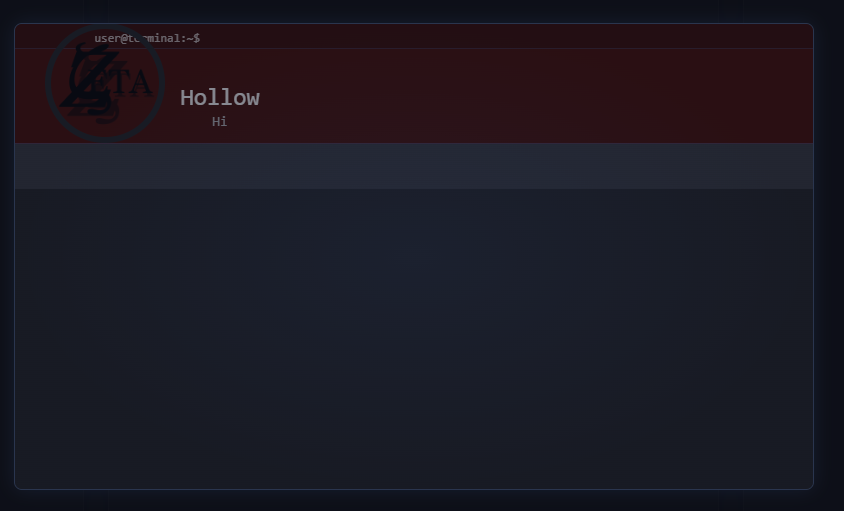
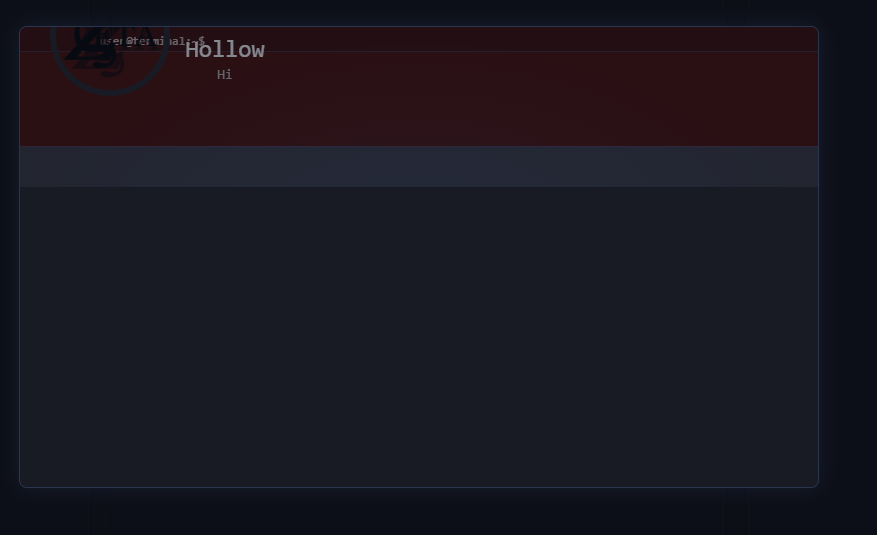
Agent query: Are the elements still overlapping or is the layout properly spaced now?
Update profile page styling and adjust layout.

Screenshot: https://storage.googleapis.com/screenshot-production-us-central1/9bf25b56-9891-43f5-bfbe-8d28c34a2a83/36dbd1b2-22e7-4775-ab0e-6e86e28035d2.jpg

diff --git a/static/css/profile.css b/static/css/profile.css
@@ -38,10 +38,9 @@
 
 .profile-banner {
     position: relative;
-    overflow: visible;
-    height: 140px;
+    height: 120px;
     background-color: var(--terminal-bg);
-    margin-bottom: 40px;
+    margin-bottom: 60px;
     border-bottom: 1px solid rgba(74, 158, 255, 0.3);
     padding-top: 25px;
 }
@@ -143,11 +142,11 @@
 
 .profile-header {
     position: absolute;
-    bottom: 20px;
+    bottom: -50px;
     left: 30px;
     display: flex;
-    align-items: flex-end;
-    gap: 1rem;
+    align-items: center;
+    gap: 1.5rem;
     z-index: 2;
 }
 
@@ -173,7 +172,7 @@
 }
 
 .profile-content {
-    padding: 30px;
+    padding: 60px 30px 30px;
     color: var(--text-color);
     background-color: var(--terminal-bg);
     min-height: 300px;
@@ -218,16 +217,18 @@
 
 .profile-avatar-container {
     position: relative;
-    width: 120px;
-    height: 120px;
+    width: 80px;
+    height: 80px;
+    flex-shrink: 0;
 }
 
 .profile-avatar {
     width: 100%;
     height: 100%;
     border-radius: 50%;
-    border: 6px solid var(--terminal-bg);
+    border: 4px solid var(--terminal-bg);
     object-fit: cover;
+    box-shadow: 0 0 10px rgba(0, 0, 0, 0.3);
 }
 
 
